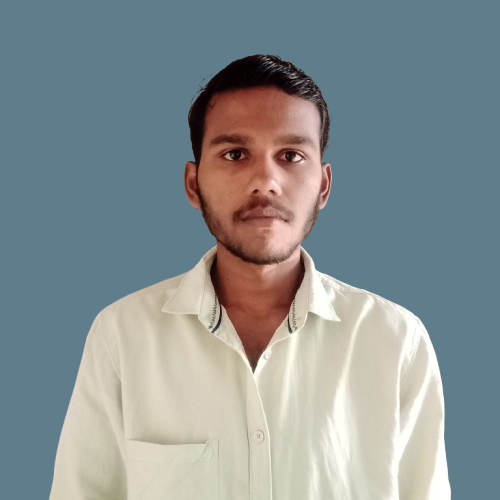
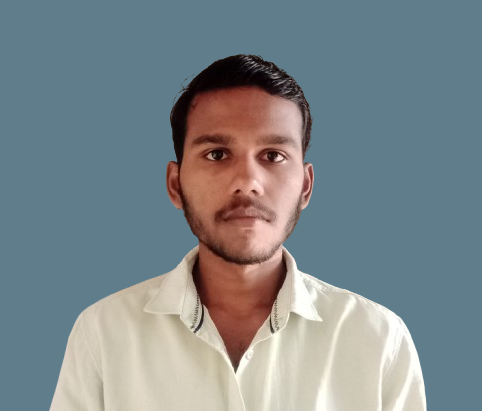
Photo Alighnment changes & CGPA changes

Changed region(s): [[0.0934, 0.0876, 0.9025, 1.0], [0.1556, 0.9051, 0.2801, 1.0], [0.2178, 0.7591, 0.249, 0.8175]]

diff --git a/index.html b/index.html
@@ -31,7 +31,7 @@
           <a class="btn lift" href="#contact">Contact</a>
         </div>
         <div class="meta fade-in">
-          <span>🎓 Varuvan Vadivelan Institute of Technology — B.E., CSE (CGPA 8.2)</span>
+          <span>🎓 Varuvan Vadivelan Institute of Technology — B.E., CSE (CGPA 7.8)</span>
         </div>
         <div class="socials fade-in">
           <a class="social-icon" href="https://www.linkedin.com/in/santhoshkumar4321/" target="_blank" rel="noopener">LinkedIn</a>
@@ -162,7 +162,7 @@
           <div>
           <p>Builded a Desktop Application that can handle add,update,delete & view operation for employee data using Java Swing and MySQL</p>
           </div>
-          <a class="link" href="https://github.com/S4a3/EmployeeWebApp" target="_blank">GitHub</a>
+          <a class="link" href="https://github.com/S4a3/Employee-CRUD" target="_blank">GitHub</a>
           <a class="demo" href="https://youtu.be/GbDFE87M5zk?si=SRfaae8n6RaVrGRW" target="_blank">Demo</a>
         </article>
         <article class="card tilt slide-in">  
@@ -170,7 +170,7 @@
           <div>
           <p>A Desktop Based Application that can handle add,update,delete & view operation for product data using Java Swing and MySQL</p>
           </div>
-          <a class="link" href="https://github.com/S4a3/EmployeeWebApp" target="_blank">GitHub</a>
+          <a class="link" href="https://github.com/S4a3/Product-CRUD" target="_blank">GitHub</a>
           <a class="demo" href="https://youtu.be/Hs2Gz5gGvC4?si=exqGqIzjCtaXM8ls" target="_blank">Demo</a>
         </article>
         <article class="card tilt slide-in">  
@@ -178,7 +178,7 @@
           <div>
           <p>This Application can handle add,update,delete & view operation for student data using Java Swing and MySQL</p>
           </div>
-          <a class="link" href="https://github.com/S4a3/EmployeeWebApp" target="_blank">GitHub</a>
+          <a class="link" href="https://github.com/S4a3/Student-CRUD" target="_blank">GitHub</a>
           <a class="demo" href="https://youtu.be/k6w9DsG5Nrg?si=grf5kP7HNSXl8G0H" target="_blank">Demo</a>
         </article>
         <article class="card tilt slide-in">  
@@ -186,13 +186,13 @@
           <div>
           <p>Customer Desktop Application that can handle add,update,delete & view operation for customer data using Java Swing and MySQL</p>
           </div>
-          <a class="link" href="https://github.com/S4a3/EmployeeWebApp" target="_blank">GitHub</a>
+          <a class="link" href="https://github.com/S4a3/Customer-CRUD" target="_blank">GitHub</a>
           <a class="demo" href="https://youtu.be/MjnC7I_2_cY?si=Eb0ei7b4wA-_BPrq" target="_blank">Demo</a>
         </article>
         <article class="card tilt slide-in">
           <h3>Crop and Fertilizer Recommendation</h3>
           <p>ML-backed system to suggest crops and fertilizers based on soil and weather inputs.</p>
-          <a class="link" href="https://github.com/S4a3/" target="_blank">GitHub</a>
+          <a class="link" href="https://github.com/S4a3/crop-and-fertilizers-recommendation" target="_blank">GitHub</a>
           <a class="demo" href="https://youtu.be/qc6xFVX4xYY?si=32LVhrfOIRQy0eE_" target="_blank">Demo</a>
         </article>
         
@@ -209,7 +209,7 @@
         <a class="btn primary lift" href="mailto:santhoshkumarm170@gmail.com">Send Email</a>
       </div>
       <div class="small-note">
-        <strong>CGPA:</strong> 8.2 &nbsp; • &nbsp; <strong>College:</strong> Varuvan Vadivelan Institute of Technology
+        <strong>CGPA:</strong> 7.8 &nbsp; • &nbsp; <strong>College:</strong> Varuvan Vadivelan Institute of Technology
       </div>
     </section>
   </main>

diff --git a/style.css b/style.css
@@ -145,8 +145,8 @@ html, body {
 }
 .photo-wrap img {
   
-  width: 120%; height: 120%;
-  object-position:center 20%
+  width: 100%; height: 100%;
+  /* object-position:center 20%; */
   object-fit: cover; display: block;
   border-radius: 50%;
   border: 6px solid rgba(255,255,255,0.18);
